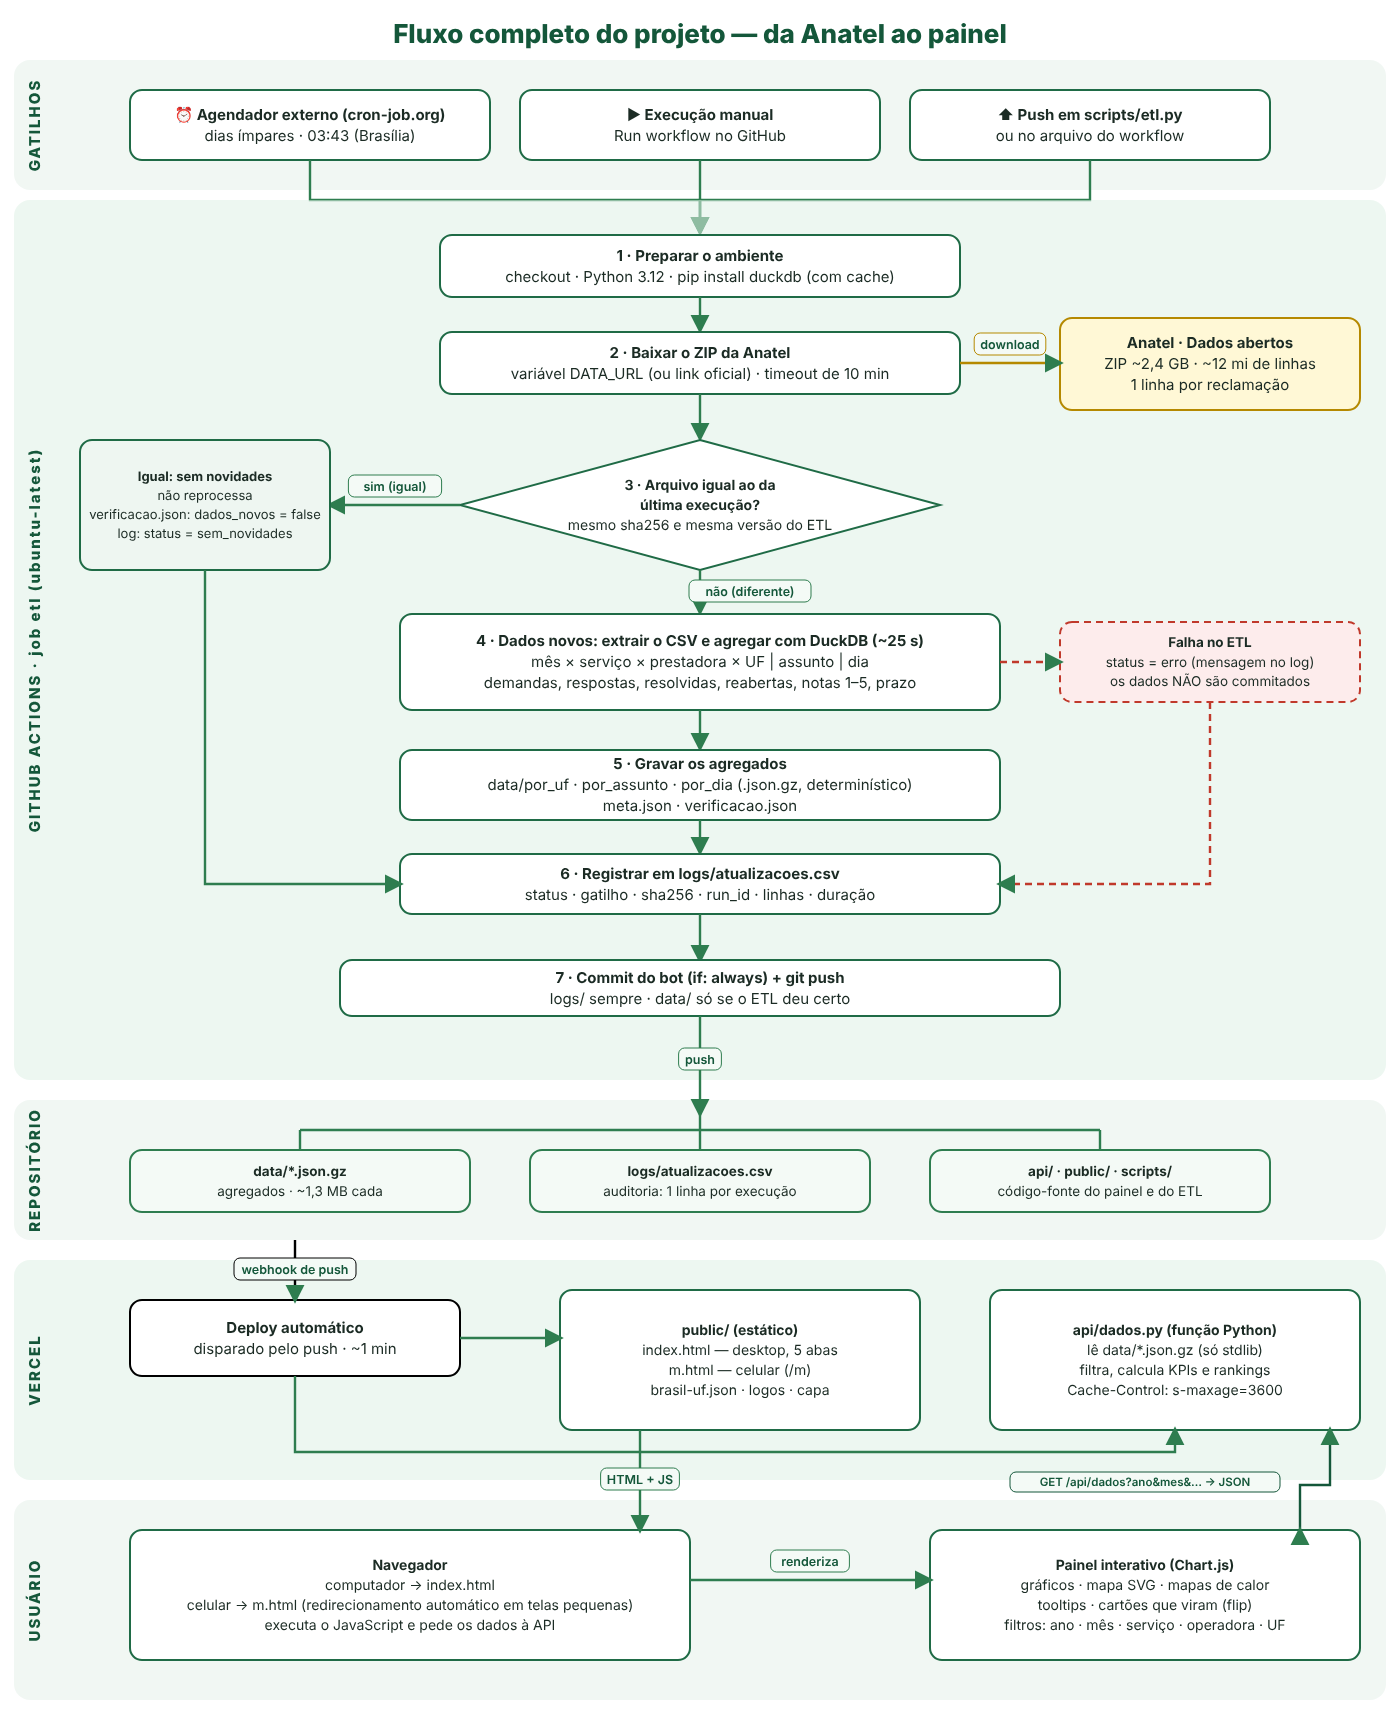
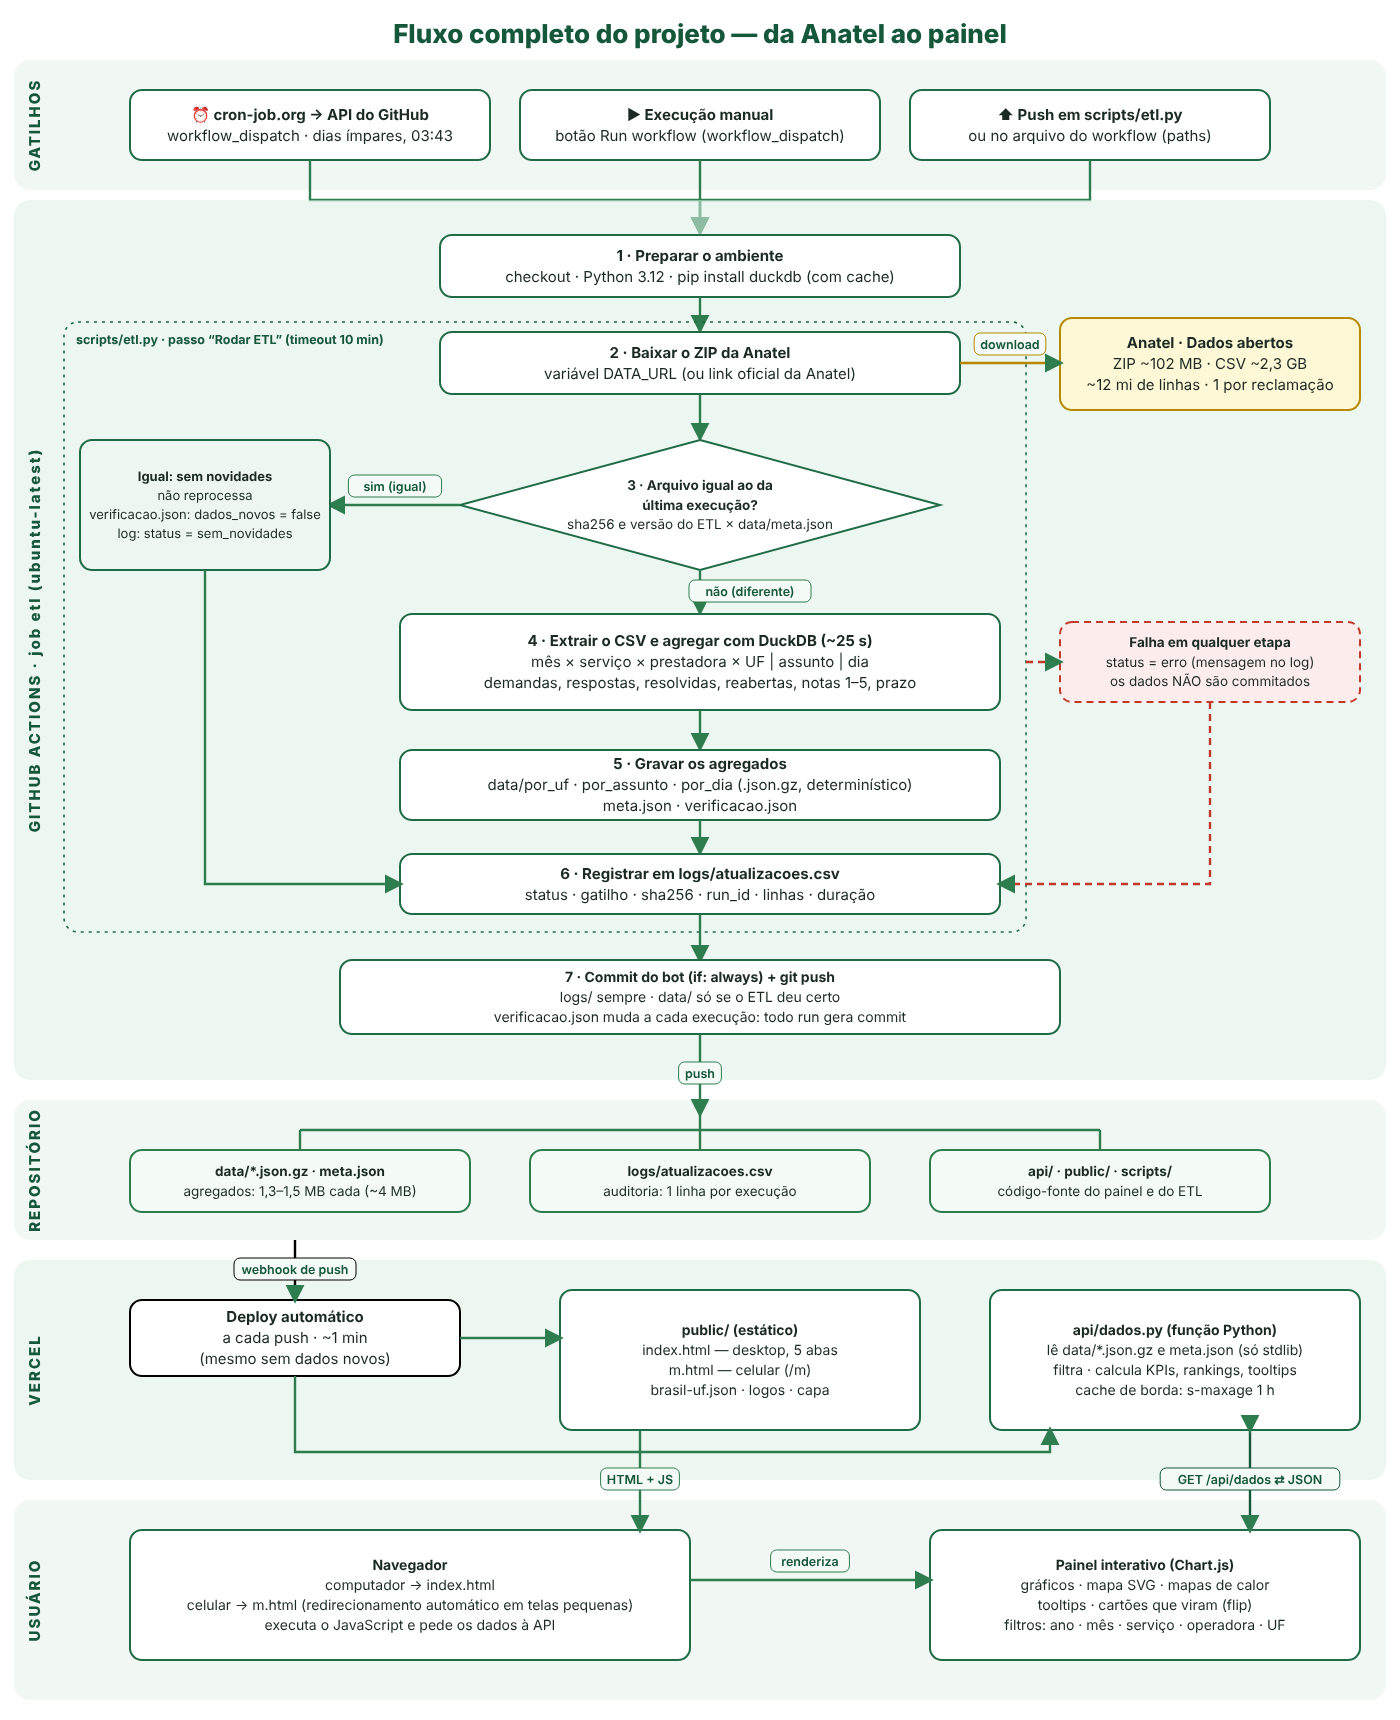
docs(fluxo): revisão completa do fluxo contra o código (tamanhos, decisão, falhas, commit/deploy) e README ajustado
- ZIP ~102 MB (CSV ~2,3 GB), não 2,4 GB
- comparação do sha256 e da versão é com data/meta.json, dentro de scripts/etl.py
- falha pode ocorrer em qualquer etapa do ETL
- todo run gera commit (verificacao.json) e, portanto, deploy

Claude-Session: https://claude.ai/code/session_01P5kqNAaBX8pBWgsCaRr8B6

diff --git a/README.md b/README.md
@@ -26,7 +26,7 @@ atualizado automaticamente nos dias de publicação da Anatel, com versão próp
 ## 📌 Sobre o projeto
 
 A Anatel publica, como dados abertos, uma base com **uma linha por reclamação** de consumidores de telecomunicações
-(mais de 12 milhões de registros desde nov/2019, um arquivo ZIP de ~2,4 GB). O arquivo é grande demais para abrir em
+(mais de 12 milhões de registros desde nov/2019, um arquivo ZIP de ~100 MB que vira um CSV de ~2,3 GB). O arquivo é grande demais para abrir em
 planilha e, no Power BI, exigiria baixar e atualizar tudo manualmente.
 
 Este projeto automatiza o caminho inteiro, do arquivo bruto até a decisão:
@@ -83,14 +83,15 @@ mapa por estado e análise de serviços e assuntos, com *tooltips* detalhados.
 
 <sub>Cinco camadas: **gatilhos** → **GitHub Actions** (ETL) → **repositório** → **Vercel** → **usuário**. Os caminhos tracejados em vermelho mostram o que acontece quando o ETL falha: o log é gravado, mas os dados não são commitados.</sub>
 
-**1. Verificação.** O workflow baixa o arquivo e compara o `sha256` com o da última execução. Se for igual, apenas registra
-uma linha no log e encerra. A Anatel publica a base em dias ímpares do mês, por isso a verificação segue esse calendário.
+**1. Verificação.** O `scripts/etl.py` baixa o ZIP e compara o `sha256` (e a versão do ETL) com os guardados em
+`data/meta.json`. Se forem iguais, apenas registra `sem_novidades` no log e encerra. A Anatel publica a base em dias ímpares do mês, por isso a verificação segue esse calendário.
 
-**2. ETL.** `scripts/etl.py` lê o CSV direto do ZIP com DuckDB e produz agregados (mês × serviço × prestadora × UF ou assunto
+**2. ETL.** O `scripts/etl.py` extrai o CSV do ZIP, lê com DuckDB e produz agregados (mês × serviço × prestadora × UF ou assunto
 ou dia) com somas e contagens, em arquivos JSON compactados. O resultado é determinístico: o mesmo dado gera os mesmos bytes.
 
-**3. Publicação.** O workflow faz *commit* dos agregados e do log. O push dispara o *deploy* da Vercel, e o painel já sai
-com os dados novos.
+**3. Publicação.** O workflow faz *commit* do log e dos dados (a execução sempre atualiza `verificacao.json`, então todo run
+gera um commit). O push dispara o *deploy* da Vercel, e o painel já sai com os dados novos. Se o ETL falhar, só o log é
+commitado.
 
 **4. Consulta.** A função `api/dados.py` (Python puro, sem dependências) recebe os filtros, recalcula indicadores, rankings e
 tooltips a partir dos agregados e devolve um único JSON. O front-end desenha tudo com Chart.js.
